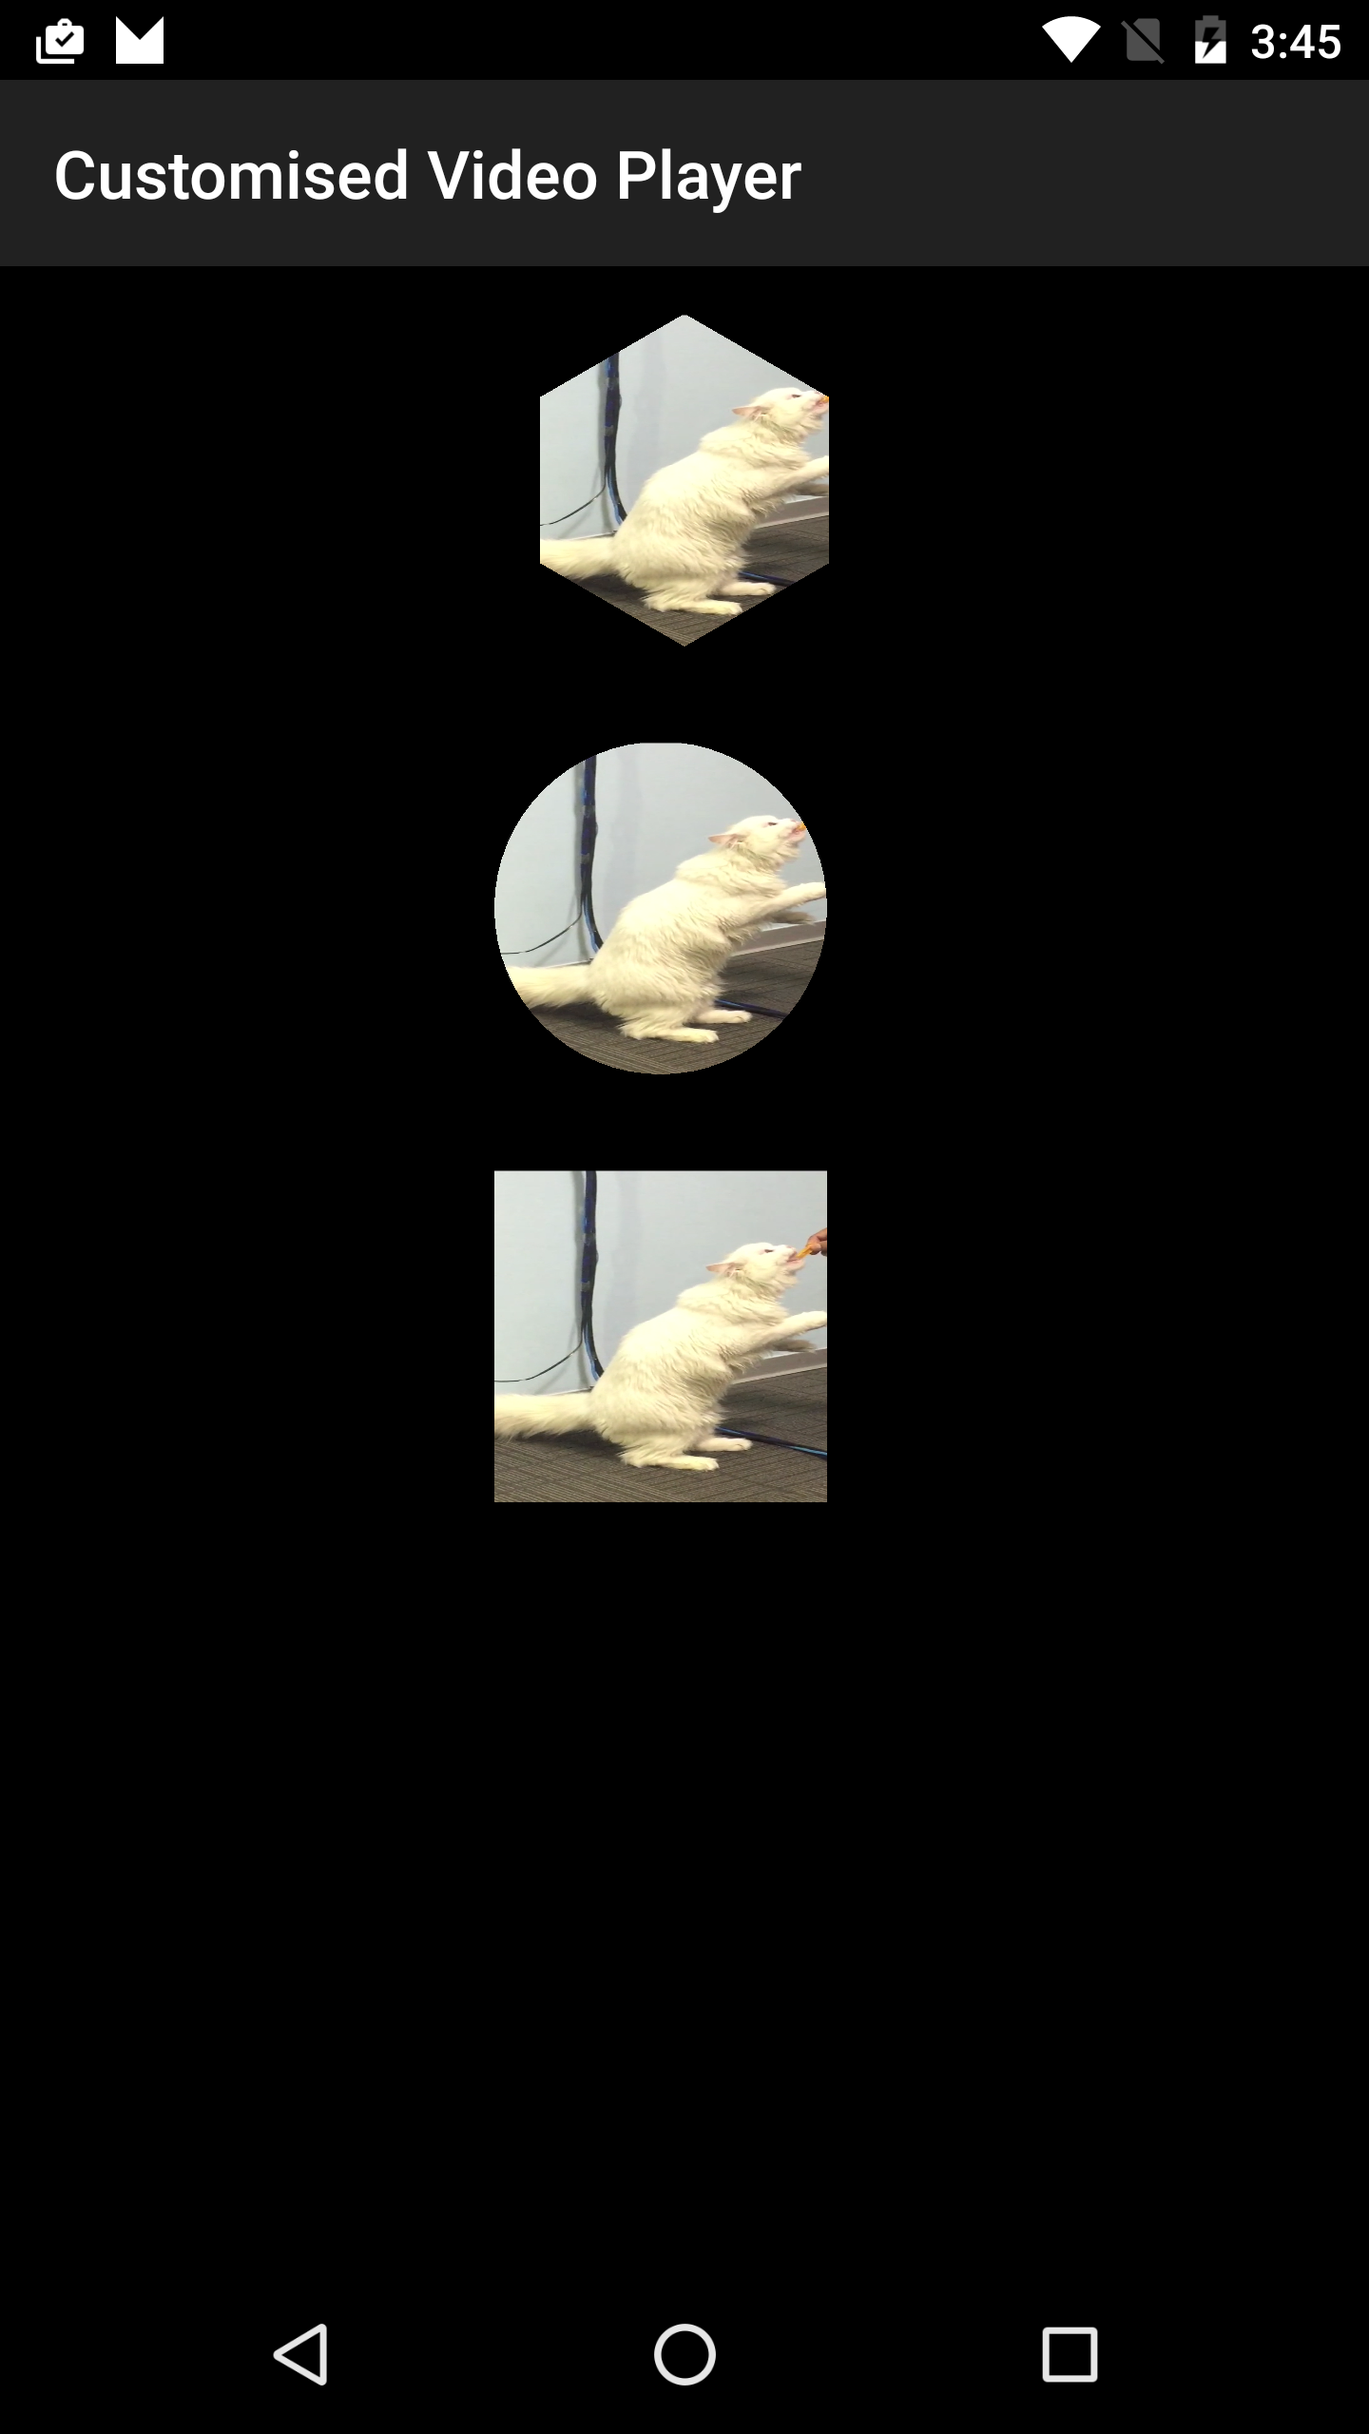
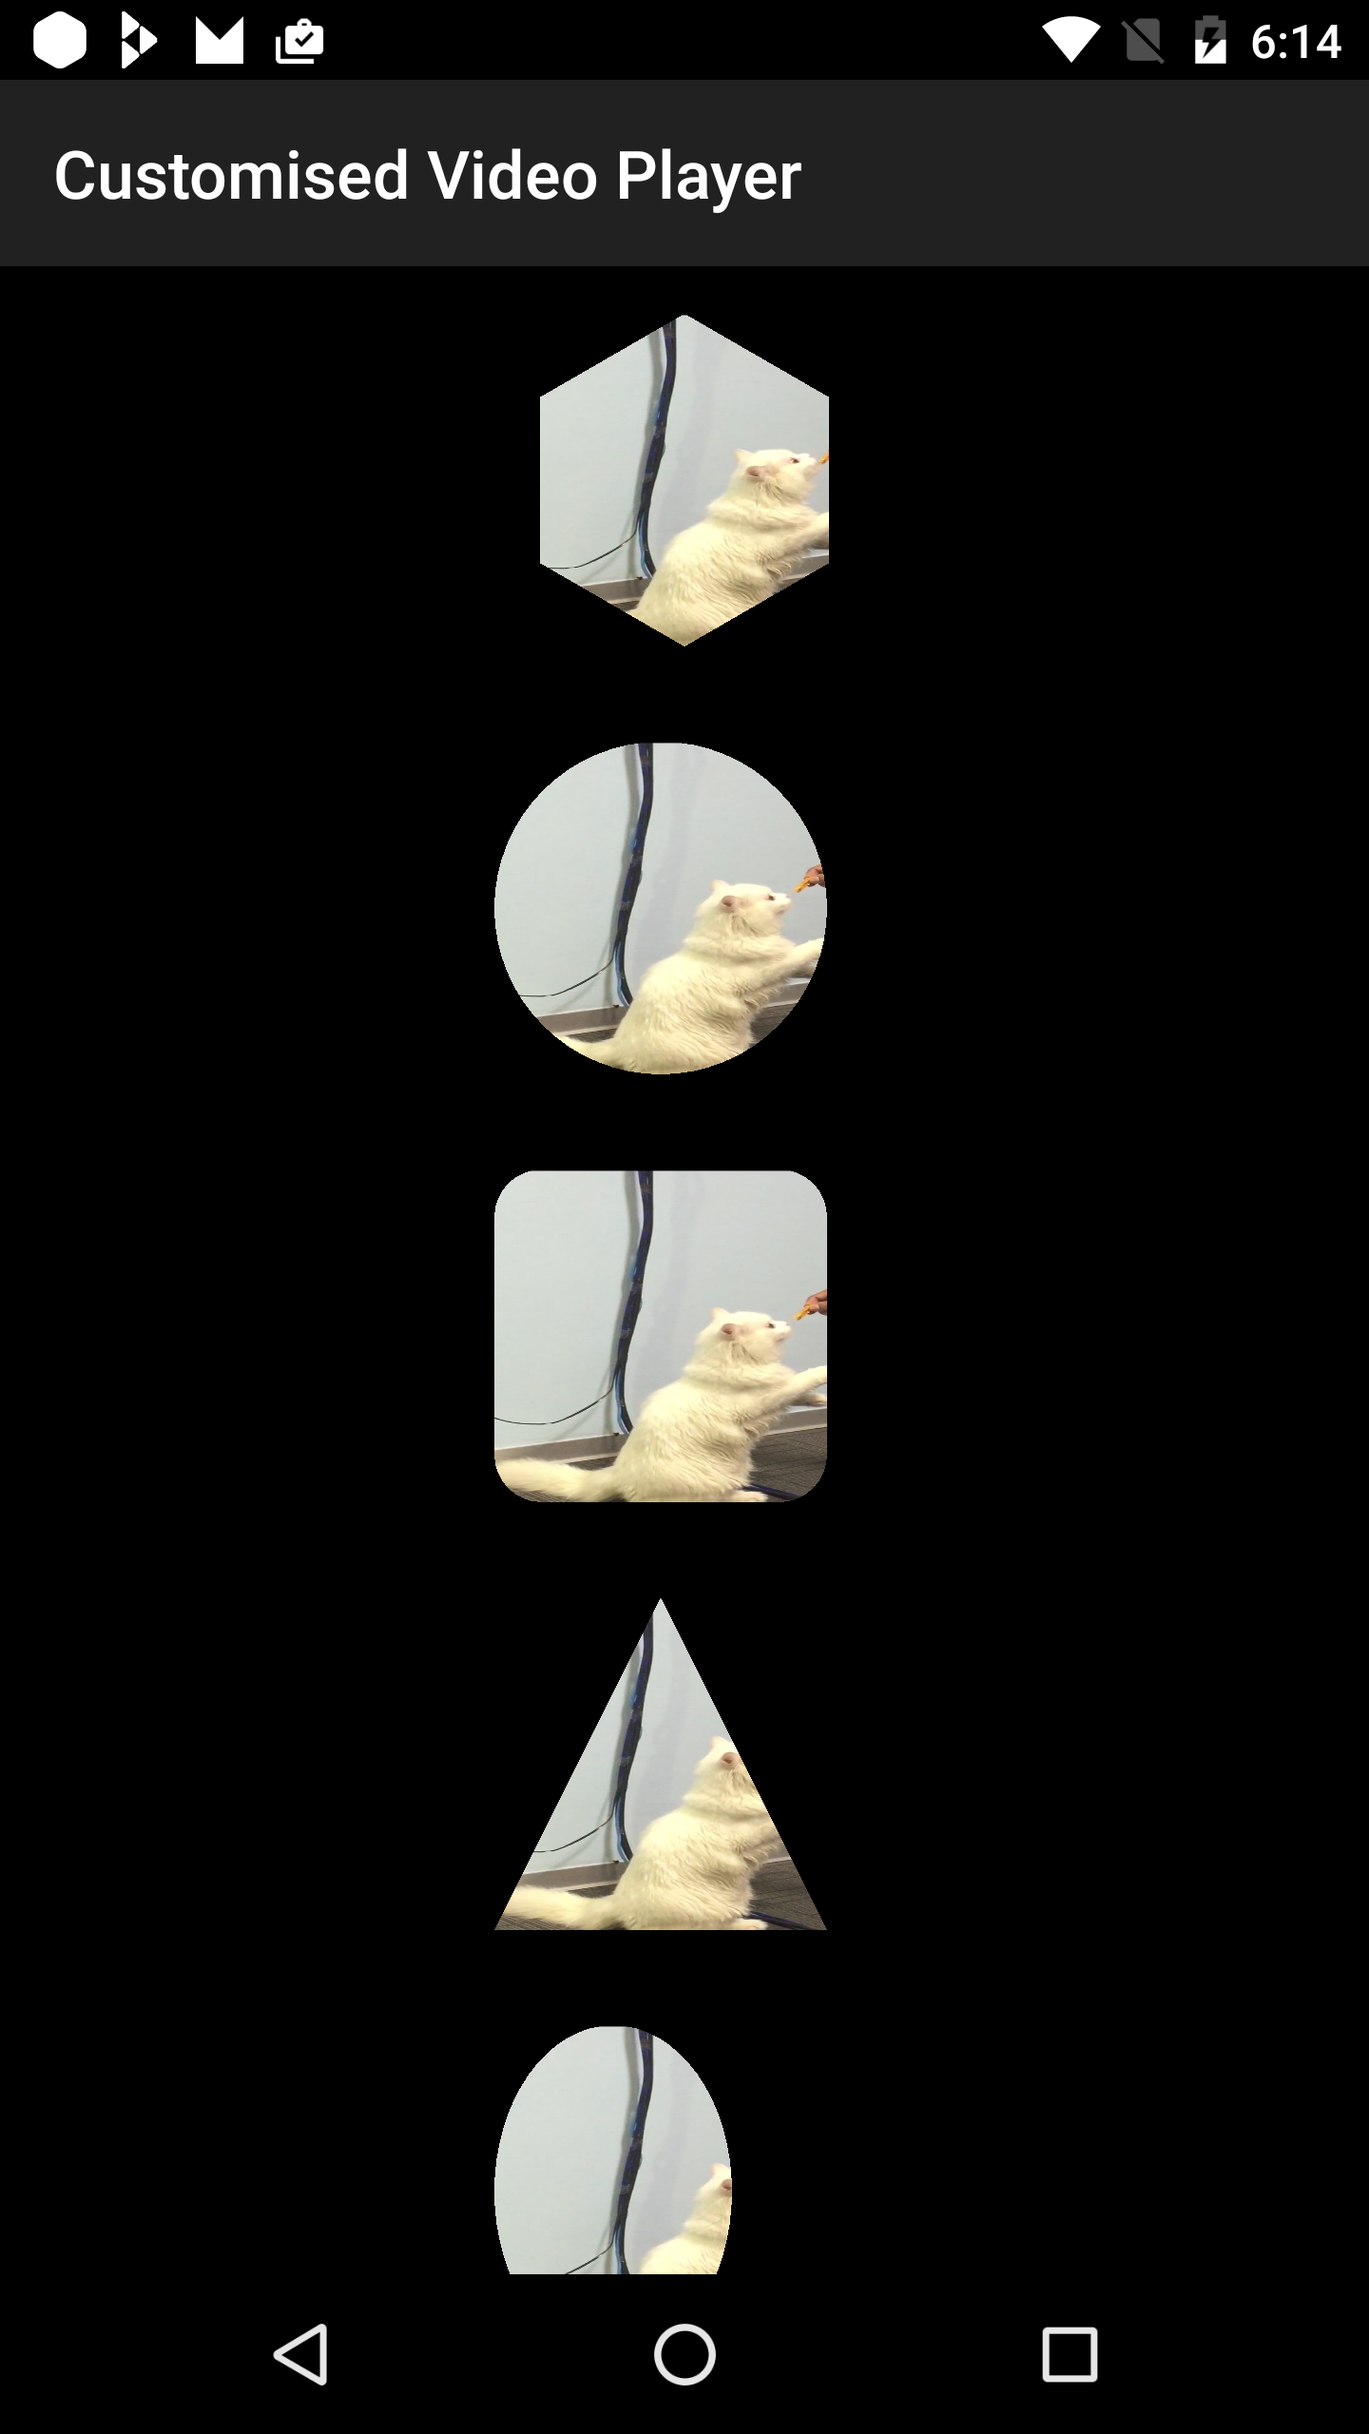
Added oval, triangular and rounded rectangular players

diff --git a/samples/src/main/java/com/android/CustomisedVideoPlayer/Sample/MainActivity.java b/samples/src/main/java/com/android/CustomisedVideoPlayer/Sample/MainActivity.java
@@ -5,9 +5,7 @@ import android.net.Uri;
 import android.os.Bundle;
 import android.util.Log;
 import android.widget.LinearLayout;
-import com.android.CustomisedVideoPlayer.CircularPlayer;
-import com.android.CustomisedVideoPlayer.HexagonalPlayer;
-import com.android.CustomisedVideoPlayer.SquarePlayer;
+import com.android.CustomisedVideoPlayer.*;
 import com.android.CustomisedVideoPlayer.player.BasePlayer;
 
 import java.io.File;
@@ -22,7 +20,10 @@ public class MainActivity extends Activity{
         HEXAGONAL(0),
         CIRCULAR(1),
         SQUARE(2),
-        CUSTOM(3);
+        OVAL(3),
+        TRIANGULAR(4),
+        ROUNDED_RECT(5),
+        CUSTOM(6);
         private int value;
         private PLAYER_TYPE(int value) {
             this.value = value;
@@ -46,12 +47,25 @@ public class MainActivity extends Activity{
         mainLayout.addView(basePlayer.getVideoFrame());
         basePlayer.preparePlayer(true);
 
-        basePlayer = preparePlayer(PLAYER_TYPE.SQUARE);
+        basePlayer = preparePlayer(PLAYER_TYPE.ROUNDED_RECT);
         basePlayer.getVideoFrame().setPadding(0, 50, 50 , 50);
         mainLayout.addView(basePlayer.getVideoFrame());
         basePlayer.preparePlayer(true);
 
+        basePlayer = preparePlayer(PLAYER_TYPE.TRIANGULAR);
+        basePlayer.getVideoFrame().setPadding(0, 50, 50 , 50);
+        mainLayout.addView(basePlayer.getVideoFrame());
+        basePlayer.preparePlayer(true);
 
+        basePlayer = preparePlayer(PLAYER_TYPE.OVAL);
+        basePlayer.getVideoFrame().setPadding(0, 50, 50 , 50);
+        mainLayout.addView(basePlayer.getVideoFrame());
+        basePlayer.preparePlayer(true);
+
+        basePlayer = preparePlayer(PLAYER_TYPE.SQUARE);
+        basePlayer.getVideoFrame().setPadding(0, 50, 50 , 50);
+        mainLayout.addView(basePlayer.getVideoFrame());
+        basePlayer.preparePlayer(true);
     }
 
     private BasePlayer preparePlayer(PLAYER_TYPE player_type){
@@ -68,8 +82,16 @@ public class MainActivity extends Activity{
                 player = new SquarePlayer(this);
                 break;
             case 3:
+                player = new OvalPlayer(this);
+                break;
+            case 4:
+                player = new TriangularPlayer(this);
+                break;
+            case 5:
+                player = new RoundedRectPlayer(this);
                 break;
         }
+
         player.setContentUri(Uri.parse("file:///android_asset/video.mp4"));
         return player;
     }

diff --git a/library/src/main/java/com/android/CustomisedVideoPlayer/TriangularPlayer.java b/library/src/main/java/com/android/CustomisedVideoPlayer/TriangularPlayer.java
@@ -1,0 +1,39 @@
+package com.android.CustomisedVideoPlayer;
+
+import android.content.Context;
+import android.graphics.Point;
+import android.view.View;
+import android.widget.ImageView;
+import com.android.CustomisedVideoPlayer.player.BasePlayer;
+import com.android.CustomisedVideoPlayer.view.TriangularSurfaceView;
+import com.google.android.exoplayer.AspectRatioFrameLayout;
+
+public class TriangularPlayer extends BasePlayer {
+    private static final String TAG = TriangularPlayer.class.getName();
+
+    public TriangularPlayer(Context context) {
+        super(context);
+        mVideoFrame = (AspectRatioFrameLayout) mInflater.inflate(R.layout.triangular_player_view, null);
+        mTranslucentView = (View) mVideoFrame.findViewById(R.id.translucent_view);
+        mSurfaceView = (TriangularSurfaceView) mVideoFrame.findViewById(R.id.texture_view);
+        mYTPreviewPlayer = (ImageView) mVideoFrame.findViewById(R.id.yt_preview_player);
+        mTranslucentView.setOnClickListener(new View.OnClickListener() {
+            @Override
+            public void onClick(View v) {
+                restartPlayer();
+            }
+        });
+    }
+
+    public void setDimention(Point x, Point y, Point z) {
+        preparePlayer(false, x, y, z);
+    }
+
+    public void preparePlayer(boolean playWhenReady, Point x, Point y, Point z) {
+        ((TriangularSurfaceView) mSurfaceView).x = x;
+        ((TriangularSurfaceView) mSurfaceView).y = y;
+        ((TriangularSurfaceView) mSurfaceView).z = z;
+        super.preparePlayer(playWhenReady);
+    }
+
+}

diff --git a/library/src/main/java/com/android/CustomisedVideoPlayer/RoundedRectPlayer.java b/library/src/main/java/com/android/CustomisedVideoPlayer/RoundedRectPlayer.java
@@ -1,0 +1,39 @@
+package com.android.CustomisedVideoPlayer;
+
+import android.content.Context;
+import android.view.View;
+import android.widget.ImageView;
+import com.android.CustomisedVideoPlayer.player.BasePlayer;
+import com.android.CustomisedVideoPlayer.view.RoundedRectSurfaceView;
+import com.google.android.exoplayer.AspectRatioFrameLayout;
+
+public class RoundedRectPlayer extends BasePlayer {
+    private static final String TAG = RoundedRectPlayer.class.getName();
+
+    public RoundedRectPlayer(Context context) {
+        super(context);
+        mVideoFrame = (AspectRatioFrameLayout) mInflater.inflate(R.layout.rounded_rect_player_view, null);
+        mTranslucentView = (View) mVideoFrame.findViewById(R.id.translucent_view);
+        mSurfaceView = (RoundedRectSurfaceView) mVideoFrame.findViewById(R.id.texture_view);
+        mYTPreviewPlayer = (ImageView) mVideoFrame.findViewById(R.id.yt_preview_player);
+        mTranslucentView.setOnClickListener(new View.OnClickListener() {
+            @Override
+            public void onClick(View v) {
+                restartPlayer();
+            }
+        });
+    }
+
+    public void setDimention(int width, int height) {
+        preparePlayer(false, width, height);
+    }
+
+    public void preparePlayer(boolean playWhenReady, int width, int height) {
+        if (width != 0 && height != 0) {
+            ((RoundedRectSurfaceView) mSurfaceView).width = width;
+            ((RoundedRectSurfaceView) mSurfaceView).height = height;
+        }
+        super.preparePlayer(playWhenReady);
+    }
+
+}

diff --git a/library/src/main/java/com/android/CustomisedVideoPlayer/OvalPlayer.java b/library/src/main/java/com/android/CustomisedVideoPlayer/OvalPlayer.java
@@ -1,0 +1,39 @@
+package com.android.CustomisedVideoPlayer;
+
+import android.content.Context;
+import android.view.View;
+import android.widget.ImageView;
+import com.android.CustomisedVideoPlayer.player.BasePlayer;
+import com.android.CustomisedVideoPlayer.view.OvalSurfaceView;
+import com.google.android.exoplayer.AspectRatioFrameLayout;
+
+public class OvalPlayer extends BasePlayer {
+    private static final String TAG = OvalPlayer.class.getName();
+
+    public OvalPlayer(Context context) {
+        super(context);
+        mVideoFrame = (AspectRatioFrameLayout) mInflater.inflate(R.layout.oval_player_view, null);
+        mTranslucentView = (View) mVideoFrame.findViewById(R.id.translucent_view);
+        mSurfaceView = (OvalSurfaceView) mVideoFrame.findViewById(R.id.texture_view);
+        mYTPreviewPlayer = (ImageView) mVideoFrame.findViewById(R.id.yt_preview_player);
+        mTranslucentView.setOnClickListener(new View.OnClickListener() {
+            @Override
+            public void onClick(View v) {
+                restartPlayer();
+            }
+        });
+    }
+
+    public void setDimension(int width, int height) {
+        preparePlayer(false, width, height);
+    }
+
+    public void preparePlayer(boolean playWhenReady, int width, int height) {
+        if (width != 0 && height != 0) {
+            ((OvalSurfaceView) mSurfaceView).width = width;
+            ((OvalSurfaceView) mSurfaceView).height = height;
+        }
+        super.preparePlayer(playWhenReady);
+    }
+
+}

diff --git a/library/src/main/java/com/android/CustomisedVideoPlayer/view/TriangularSurfaceView.java b/library/src/main/java/com/android/CustomisedVideoPlayer/view/TriangularSurfaceView.java
@@ -1,0 +1,45 @@
+package com.android.CustomisedVideoPlayer.view;
+
+import android.content.Context;
+import android.graphics.Canvas;
+import android.graphics.Path;
+import android.graphics.Point;
+import android.util.AttributeSet;
+import android.view.SurfaceView;
+
+/**
+ * Created by aasha.medhi on 11/18/15.
+ */
+public class TriangularSurfaceView extends SurfaceView {
+
+    private Path circularPath;
+
+    public TriangularSurfaceView(Context context) {
+        super(context);
+    }
+
+    public TriangularSurfaceView(Context context, AttributeSet attrs) {
+        super(context, attrs);
+    }
+
+    public TriangularSurfaceView(Context context, AttributeSet attrs, int defStyleAttr) {
+        super(context, attrs, defStyleAttr);
+    }
+
+    public Point x = new Point(50, 0);// default
+    public Point y = new Point(0, 100);// default
+    public Point z = new Point(100, 100);// default
+
+    @Override
+    protected void dispatchDraw(Canvas canvas) {
+        circularPath = new Path();
+        float density = this.getResources().getDisplayMetrics().density;
+        circularPath.moveTo(x.x * density, x.y * density);
+        circularPath.lineTo(y.x * density, y.y * density);
+        circularPath.lineTo(z.x * density, z.y * density);
+        circularPath.lineTo(x.x * density, x.y * density);
+        canvas.clipPath(circularPath);
+        super.dispatchDraw(canvas);
+    }
+
+}

diff --git a/library/src/main/java/com/android/CustomisedVideoPlayer/HexagonalPlayer.java b/library/src/main/java/com/android/CustomisedVideoPlayer/HexagonalPlayer.java
@@ -1,18 +1,15 @@
 package com.android.CustomisedVideoPlayer;
 
 import android.content.Context;
-import android.util.DisplayMetrics;
-import android.util.Log;
 import android.view.View;
-import android.view.WindowManager;
 import android.widget.ImageView;
 import com.android.CustomisedVideoPlayer.player.BasePlayer;
-import com.android.CustomisedVideoPlayer.view.CircularSurfaceView;
 import com.android.CustomisedVideoPlayer.view.HexagonalSurfaceView;
 import com.google.android.exoplayer.AspectRatioFrameLayout;
 
 public class HexagonalPlayer extends BasePlayer {
     private static final String TAG = HexagonalPlayer.class.getName();
+
     public HexagonalPlayer(Context context) {
         super(context);
         mVideoFrame = (AspectRatioFrameLayout) mInflater.inflate(R.layout.hexagonal_player_view, null);
@@ -27,13 +24,13 @@ public class HexagonalPlayer extends BasePlayer {
         });
     }
 
-    public void setRadius(int radius){
+    public void setRadius(int radius) {
         preparePlayer(false, radius);
     }
 
     public void preparePlayer(boolean playWhenReady, int radius) {
-        if(radius != 0) {
-            ((HexagonalSurfaceView)mSurfaceView).radius = radius;
+        if (radius != 0) {
+            ((HexagonalSurfaceView) mSurfaceView).radius = radius;
         }
         super.preparePlayer(playWhenReady);
     }

diff --git a/library/src/main/java/com/android/CustomisedVideoPlayer/view/RoundedRectSurfaceView.java b/library/src/main/java/com/android/CustomisedVideoPlayer/view/RoundedRectSurfaceView.java
@@ -1,0 +1,39 @@
+package com.android.CustomisedVideoPlayer.view;
+
+import android.content.Context;
+import android.graphics.Canvas;
+import android.graphics.Path;
+import android.util.AttributeSet;
+import android.view.SurfaceView;
+
+/**
+ * Created by aasha.medhi on 11/18/15.
+ */
+public class RoundedRectSurfaceView extends SurfaceView {
+
+    private Path rectPath;
+
+    public RoundedRectSurfaceView(Context context) {
+        super(context);
+    }
+
+    public RoundedRectSurfaceView(Context context, AttributeSet attrs) {
+        super(context, attrs);
+    }
+
+    public RoundedRectSurfaceView(Context context, AttributeSet attrs, int defStyleAttr) {
+        super(context, attrs, defStyleAttr);
+    }
+
+    public int width = 100;// default
+    public int height = 100;// default
+    @Override
+    protected void dispatchDraw(Canvas canvas) {
+        rectPath = new Path();
+        float density = this.getResources().getDisplayMetrics().density;
+        rectPath.addRoundRect(0, 0, width * density, height * density, 50, 50, Path.Direction.CW);
+        canvas.clipPath(rectPath);
+        super.dispatchDraw(canvas);
+    }
+
+}

diff --git a/library/src/main/java/com/android/CustomisedVideoPlayer/view/OvalSurfaceView.java b/library/src/main/java/com/android/CustomisedVideoPlayer/view/OvalSurfaceView.java
@@ -1,0 +1,40 @@
+package com.android.CustomisedVideoPlayer.view;
+
+import android.content.Context;
+import android.graphics.*;
+import android.util.AttributeSet;
+import android.util.Log;
+import android.view.SurfaceView;
+
+/**
+ * Created by aasha.medhi on 11/18/15.
+ */
+public class OvalSurfaceView extends SurfaceView {
+
+    private Path circularPath;
+
+    public OvalSurfaceView(Context context) {
+        super(context);
+    }
+
+    public OvalSurfaceView(Context context, AttributeSet attrs) {
+        super(context, attrs);
+    }
+
+    public OvalSurfaceView(Context context, AttributeSet attrs, int defStyleAttr) {
+        super(context, attrs, defStyleAttr);
+    }
+
+    public int width = 250;// default
+    public int height = 350;
+
+    @Override
+    protected void dispatchDraw(Canvas canvas) {
+        circularPath = new Path();
+        float density = this.getResources().getDisplayMetrics().density;
+        circularPath.addOval(0, 0 , width, height ,Path.Direction.CW);
+        canvas.clipPath(circularPath);
+        super.dispatchDraw(canvas);
+    }
+
+}

diff --git a/library/src/main/java/com/android/CustomisedVideoPlayer/SquarePlayer.java b/library/src/main/java/com/android/CustomisedVideoPlayer/SquarePlayer.java
@@ -1,14 +1,11 @@
 package com.android.CustomisedVideoPlayer;
 
 import android.content.Context;
-import android.view.View;
-import android.widget.ImageView;
 import com.android.CustomisedVideoPlayer.player.BasePlayer;
-import com.android.CustomisedVideoPlayer.view.CircularSurfaceView;
-import com.google.android.exoplayer.AspectRatioFrameLayout;
 
 public class SquarePlayer extends BasePlayer {
     private static final String TAG = SquarePlayer.class.getName();
+
     public SquarePlayer(Context context) {
         super(context);
         //Just set width and height to the required square

diff --git a/library/src/main/java/com/android/CustomisedVideoPlayer/CircularPlayer.java b/library/src/main/java/com/android/CustomisedVideoPlayer/CircularPlayer.java
@@ -1,9 +1,7 @@
 package com.android.CustomisedVideoPlayer;
 
 import android.content.Context;
-import android.util.DisplayMetrics;
-import android.util.Log;
-import android.view.*;
+import android.view.View;
 import android.widget.ImageView;
 import com.android.CustomisedVideoPlayer.player.BasePlayer;
 import com.android.CustomisedVideoPlayer.view.CircularSurfaceView;
